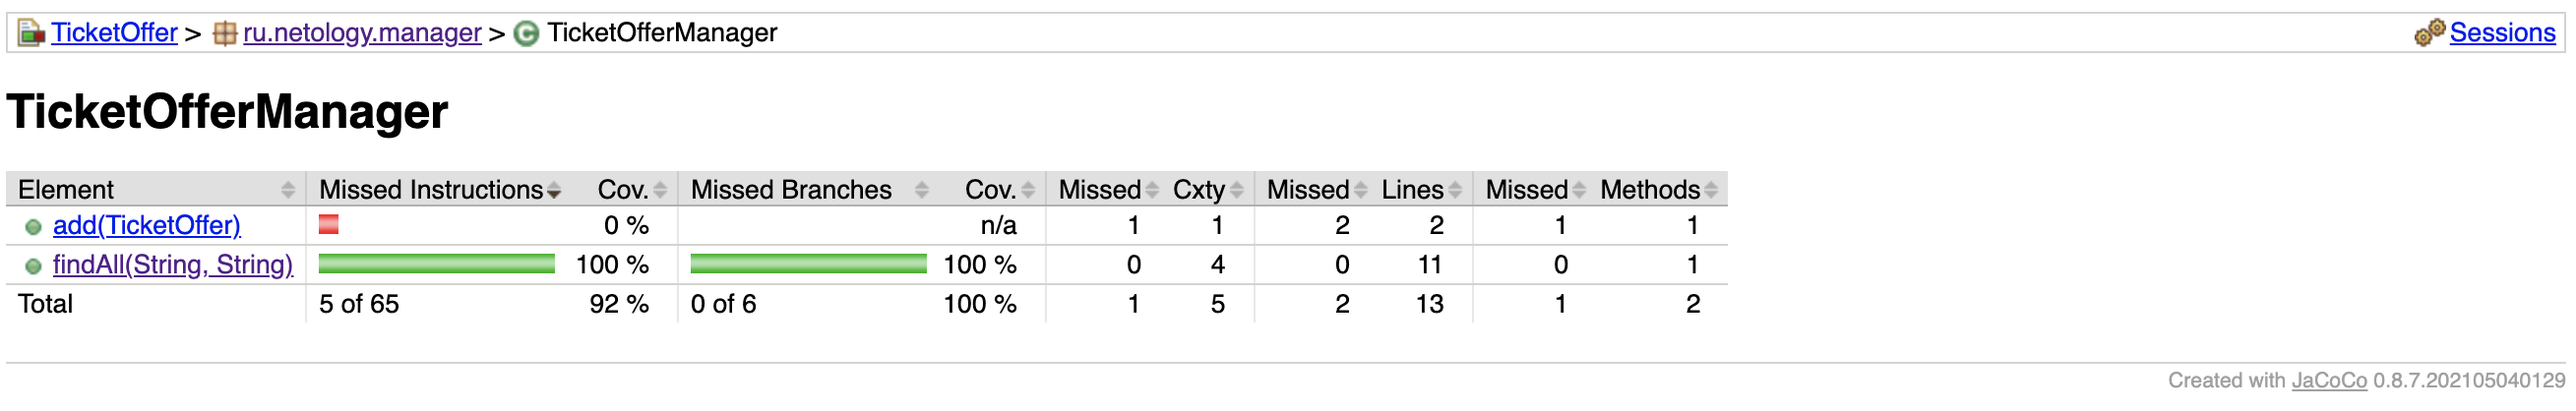
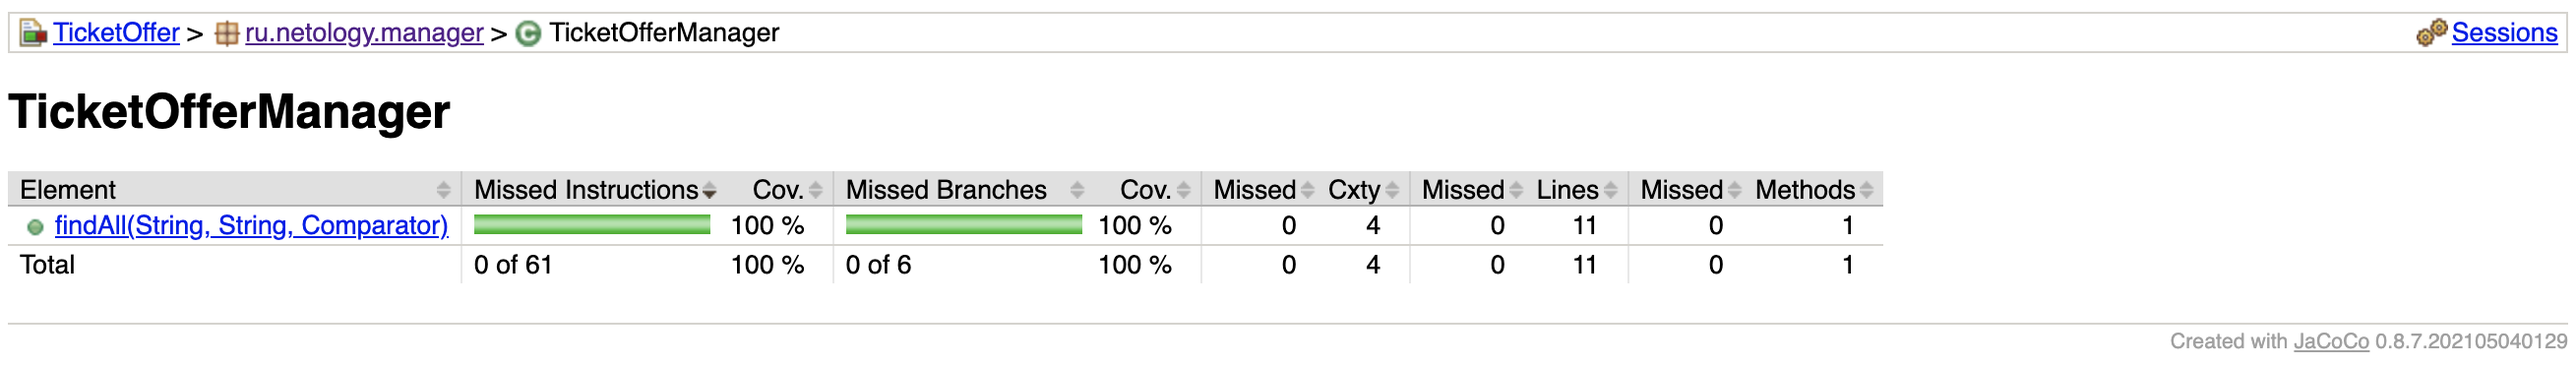
Added comparator

diff --git a/src/test/java/ru/netology/manager/TicketOfferManagerTest.java b/src/test/java/ru/netology/manager/TicketOfferManagerTest.java
@@ -14,8 +14,8 @@ class TicketOfferManagerTest {
 
     private TicketOffer ticket1 = new TicketOffer(1, 10_000, "MOW", "ZNZ", 720);
     private TicketOffer ticket2 = new TicketOffer(2, 15_000, "ZNZ", "MOW", 740);
-    private TicketOffer ticket3 = new TicketOffer(3, 20_000, "MOW", "KGS", 240);
-    private TicketOffer ticket4 = new TicketOffer(4, 20_000, "MOW", "KGS", 300);
+    private TicketOffer ticket3 = new TicketOffer(3, 20_000, "MOW", "KGS", 300);
+    private TicketOffer ticket4 = new TicketOffer(4, 20_000, "MOW", "KGS", 240);
 
     @BeforeEach
     void SetUp() {
@@ -26,25 +26,17 @@ class TicketOfferManagerTest {
     }
 
     @Test
-    @DisplayName("Search for ticket offer on a specific route")
-    void shouldSearchFromTo() {
-        TicketOffer[] actual = manager.findAll("MOW", "ZNZ");
-        TicketOffer[] expected = {ticket1};
+    @DisplayName("Sort by fastest route")
+    void shouldSortByFastestRoute() {
+        TicketOffer[] actual = manager.findAll("MOW", "KGS", new TicketOffer());
+        TicketOffer[] expected = {ticket4, ticket3};
         assertArrayEquals(expected, actual);
     }
 
     @Test
-    @DisplayName("Search for offers of all tickets from the same routes")
-    void shouldSearchFromSameAirport() {
-        TicketOffer[] actual = manager.findAll("MOW", "KGS");
-        TicketOffer[] expected = {ticket3, ticket4};
-        assertArrayEquals(expected, actual);
-    }
-
-    @Test
-    @DisplayName("Search for a ticket offer for a missing route")
-    void shouldSearchNotExistingFromTo() {
-        TicketOffer[] actual = manager.findAll("ZNZ", "KGS");
+    @DisplayName("Sort if route not exist")
+    void shouldSortByNotExistRoute() {
+        TicketOffer[] actual = manager.findAll("KGS", "ZNZ", new TicketOffer());
         TicketOffer[] expected = {};
         assertArrayEquals(expected, actual);
     }

diff --git a/src/main/java/ru/netology/manager/TicketOfferManager.java b/src/main/java/ru/netology/manager/TicketOfferManager.java
@@ -7,6 +7,7 @@ import ru.netology.domain.TicketOffer;
 import ru.netology.repository.TicketOfferRepository;
 
 import java.util.Arrays;
+import java.util.Comparator;
 
 @Data
 @NoArgsConstructor
@@ -14,11 +15,7 @@ import java.util.Arrays;
 public class TicketOfferManager {
     private TicketOfferRepository ticketOfferRepository;
 
-    public void add(TicketOffer ticket) {
-        ticketOfferRepository.save(ticket);
-    }
-
-    public TicketOffer[] findAll(String from, String to) {
+    public TicketOffer[] findAll(String from, String to, Comparator<TicketOffer> comparator) {
         TicketOffer[] result = new TicketOffer[0];
         for (TicketOffer ticket : ticketOfferRepository.getAll()) {
             int length = result.length;
@@ -30,7 +27,8 @@ public class TicketOfferManager {
                 result = tmp;
             }
         }
-        Arrays.sort(result);
+        Arrays.sort(result, comparator);
         return result;
     }
 }
+

diff --git a/src/main/java/ru/netology/domain/TicketOffer.java b/src/main/java/ru/netology/domain/TicketOffer.java
@@ -4,18 +4,20 @@ import lombok.AllArgsConstructor;
 import lombok.Data;
 import lombok.NoArgsConstructor;
 
+import java.util.Comparator;
+
 @Data
 @NoArgsConstructor
 @AllArgsConstructor
-public class TicketOffer implements Comparable<TicketOffer> {
+public class TicketOffer implements Comparator<TicketOffer> {
     private int id;
     private int ticketPrice;
     private String departureAirport;
     private String arrivalAirport;
-    private int travelTimeInMinutes;
+    private int flightTimeInMinutes;
 
     @Override
-    public int compareTo(TicketOffer o) {
-        return ticketPrice - o.ticketPrice;
+    public int compare(TicketOffer o1, TicketOffer o2) {
+        return o1.getFlightTimeInMinutes() - o2.getFlightTimeInMinutes();
     }
 }
